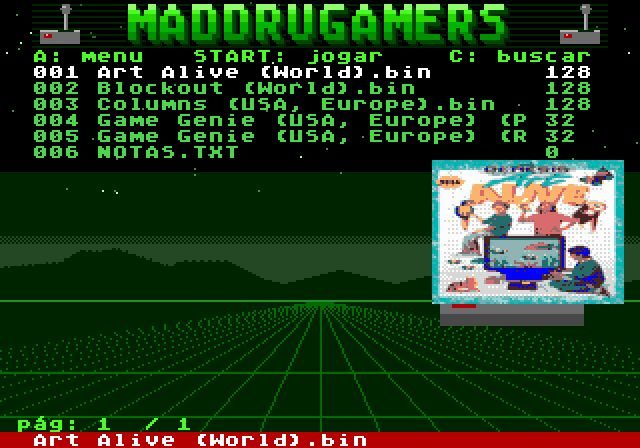
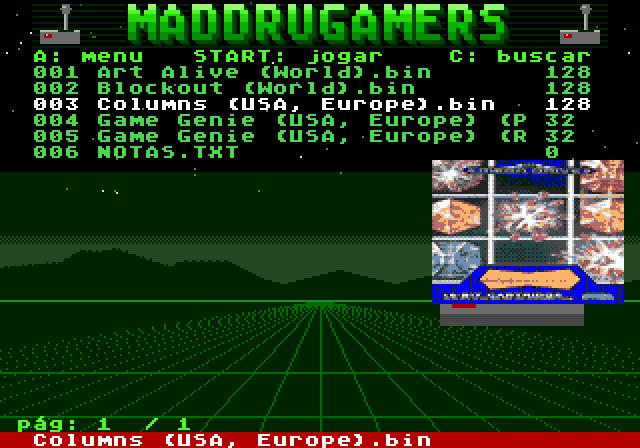
Screenshots atualizadas (v1, v3, busca) e prévias do tema Maddrugamers

diff --git a/v1mod/test/t_shots.py b/v1mod/test/t_shots.py
@@ -1,18 +1,95 @@
+"""Screenshots for the README (v1mod/screens, v3/screens, temas/*/previa_*.png), from the emulators.
+SD images (sdput.sh): sd.img plain, sdw.img = the banner/wallpaper of the release zips, sdm.img = the
+Maddrugamers theme."""
+from pathlib import Path
+
 from PIL import Image
-from t_all_lib import *
-D = r'C:\Users\Antonio\reverse-engineer-anything\mega-genesis\v1mod\screens'
-m = new(); m.screen(D + r'\menu_principal.png')
-m.press('down'); m.press('a', after=120); m.press('down'); m.press('a', after=120); m.press('down'); m.press('a', after=120)
-m.run(60); m.screen(D + r'\lista_com_capa.png')
-m.press('down'); m.press('down'); m.press('a', after=200); m.screen(D + r'\menu_do_jogo.png')
-for _ in range(3): m.press('down')
-m.press('a', after=150); m.screen(D + r'\info_da_rom.png')
-m = new(); [m.press('down') for _ in range(7)]; m.press('a', after=200); [m.press('down') for _ in range(4)]
-m.press('a', after=200); m.screen(D + r'\creditos.png')
-m = new(); [m.press('down') for _ in range(8)]; shots = []
-for t in range(4):
-    if t: m.press('a', after=300)
-    m.screen('th.png'); shots.append(Image.open('th.png').copy())
+
+import emu
+import emu3
+
+MG = Path(r'C:\Users\Antonio\reverse-engineer-anything\mega-genesis')
+V1, V3 = str(MG / 'OS-V38-PTBR.BIN'), str(MG / 'MDOS.ptbr.BIN')
+S1, S3, TM = MG / 'v1mod' / 'screens', MG / 'v3' / 'screens', MG / 'temas' / 'maddrugamers'
+KEYS = "ABCDEFGHIJKLMNOPQRSTUVWXYZ0123456789-.'&"
+errors = []
+
+
+def type_text(m, text, wait=12):
+    cx = cy = 0
+    for ch in text:
+        i = 40 if ch == ' ' else KEYS.index(ch)
+        tx, ty = i % 10, i // 10
+        while cy != ty:
+            m.press('down' if ty > cy else 'up', after=wait)
+            cy += 1 if ty > cy else -1
+        if ty == 4:
+            while cx * 3 // 10:
+                m.press('left', after=wait)
+                cx = [0, 4, 7][(cx * 3 // 10 + 2) % 3]
+        while cx != tx:
+            m.press('right' if tx > cx else 'left', after=wait)
+            cx += 1 if tx > cx else -1
+        m.press('a', after=wait)
+
+
+def v1(sd):
+    return emu.boot(V1, f'sd/{sd}', None, log=lambda s: errors.append(s) if s.startswith('!!') else None)
+
+
+def v1_usa(m):                      # Selecionar jogo -> ROMS -> USA, cursor on Columns, its cover shown
+    m.press('down'); m.press('a', after=150)
+    m.press('down'); m.press('a', after=150)
+    m.press('down'); m.press('a', after=150)
+    m.press('down'); m.press('down', after=90)
+
+
+def v3(sd):
+    return emu3.boot(V3, f'sd/{sd}', frames=60, log=lambda s: errors.append(s) if s.startswith('!!') else None)
+
+
+def v3_usa(m):
+    m.press('a', after=200); m.press('down'); m.press('a', after=150); m.press('down'); m.press('a', after=150)
+    m.press('down', after=30); m.press('down', after=90)
+
+
+# ---- v1, release look (sdw.img)
+m = v1('sdw.img'); m.screen(S1 / 'menu_principal.png')
+v1_usa(m); m.screen(S1 / 'lista_wallpaper.png')
+m.press('a', after=250); m.screen(S1 / 'menu_do_jogo.png')
+for _ in range(4):
+    m.press('down')
+m.press('a', after=200); m.screen(S1 / 'info_da_rom.png')
+m.press('a', after=150); m.press('b', after=250)
+m.press('c', after=200); m.screen(S1 / 'busca_modos.png')
+m.press('a', after=200); type_text(m, 'GAME GEN'); m.screen(S1 / 'busca_teclado.png')
+m.press('start', after=1200); m.run(60); m.screen(S1 / 'busca_resultados.png')
+m = v1('sdw.img'); [m.press('down') for _ in range(7)]; m.press('a', after=200)
+[m.press('down') for _ in range(4)]; m.press('a', after=200); m.screen(S1 / 'creditos.png')
+m = v1('sd.img'); v1_usa(m); m.screen(S1 / 'lista_com_capa.png')
+m = v1('sd.img'); [m.press('down') for _ in range(8)]
+shots = []
+for t in range(4):                  # the 4 themes (plain card: their backdrop shows)
+    if t:
+        m.press('a', after=300)
+    m.screen('th.png')
+    shots.append(Image.open('th.png').copy())
 sheet = Image.new('RGB', (1280, 896))
-for i, im in enumerate(shots): sheet.paste(im, ((i % 2) * 640, (i // 2) * 448))
-sheet.save(D + r'\temas.png')
+for i, im in enumerate(shots):
+    sheet.paste(im, ((i % 2) * 640, (i // 2) * 448))
+sheet.save(S1 / 'temas.png')
+
+# ---- v3, release look (sdw.img)
+m = v3('sdw.img'); v3_usa(m); m.screen(S3 / 'lista_wallpaper.png')
+m.press('a', after=300); m.screen(S3 / 'menu_do_arquivo.png'); m.press('b', after=300)
+m.press('c', after=200); m.screen(S3 / 'menu_principal.png')
+m.press('a', after=400); m.press('a', after=300); type_text(m, 'GAME GEN'); m.screen(S3 / 'busca_teclado.png')
+m.press('start', after=1500); m.run(60); m.screen(S3 / 'busca_resultados.png')
+m = v3('sd.img'); v3_usa(m); m.screen(S3 / 'lista_com_capa.png')
+
+# ---- Maddrugamers theme (sdm.img)
+m = v1('sdm.img'); m.screen(TM / 'previa_v1_menu.png')
+v1_usa(m); m.screen(TM / 'previa_v1.png')
+m = v3('sdm.img'); v3_usa(m); m.screen(TM / 'previa_v3.png')
+m.press('c', after=200); m.screen(TM / 'previa_v3_menu.png')
+print('\n'.join(errors) or 'no emulator errors')

diff --git a/README.md b/README.md
@@ -50,6 +50,8 @@ As duas versões têm o mesmo conjunto de recursos, adaptado a cada hardware:
 |---|---|---|
 | ![Lista com capa](v1mod/screens/lista_com_capa.png) | ![Menu do jogo](v1mod/screens/menu_do_jogo.png) | ![Info da ROM](v1mod/screens/info_da_rom.png) |
 | Capa aparece ao parar sobre um jogo (v1) | Menu do jogo (botão A) | Info da ROM |
+| ![Busca: modos](v1mod/screens/busca_modos.png) | ![Busca: teclado](v1mod/screens/busca_teclado.png) | ![Busca: resultados](v1mod/screens/busca_resultados.png) |
+| Busca em todas as pastas (C) | Busca por nome: teclado na tela | Resultados: `[*]` ao lado da página, B volta |
 
 ![Temas](v1mod/screens/temas.png)
 
@@ -57,6 +59,10 @@ As duas versões têm o mesmo conjunto de recursos, adaptado a cada hardware:
 |---|---|
 | ![Wallpaper v1](v1mod/screens/lista_wallpaper.png) | ![Wallpaper v3](v3/screens/lista_wallpaper.png) |
 | Banner e wallpaper inclusos (v1) | Banner e wallpaper inclusos (v3) |
+| ![Menu principal v3](v3/screens/menu_principal.png) | ![Busca v3](v3/screens/busca_resultados.png) |
+| Menu principal da v3 (C), com a busca | Resultados da busca na v3 |
+| ![Menu do arquivo v3](v3/screens/menu_do_arquivo.png) | ![Créditos v1](v1mod/screens/creditos.png) |
+| Menu do arquivo da v3 (A), com a capa | Créditos (v1: Ferramentas → sobre) |
 
 ---
 
@@ -191,7 +197,8 @@ cartucho, use um banner sem cores (o do zip principal).
 
 | v1 | v3 |
 |---|---|
-| ![Maddrugamers na v1](temas/maddrugamers/previa_v1.png) | ![Maddrugamers na v3](temas/maddrugamers/previa_v3.png) |
+| ![Maddrugamers na v1: menu](temas/maddrugamers/previa_v1_menu.png) | ![Maddrugamers na v3: menu](temas/maddrugamers/previa_v3_menu.png) |
+| ![Maddrugamers na v1: lista](temas/maddrugamers/previa_v1.png) | ![Maddrugamers na v3: lista](temas/maddrugamers/previa_v3.png) |
 
 Para criar um tema com cores, use `--cores` no conversor do banner (cores do Mega Drive em hexadecimal
 `0BGR`, só dígitos pares: fundo, faixa do menu, sombra da faixa, texto, texto apagado, destaque):
